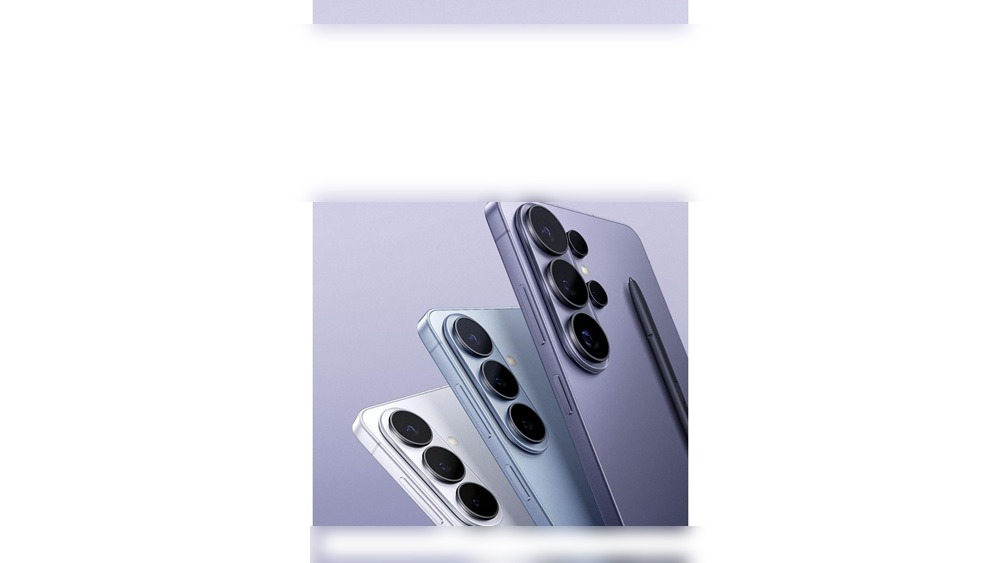
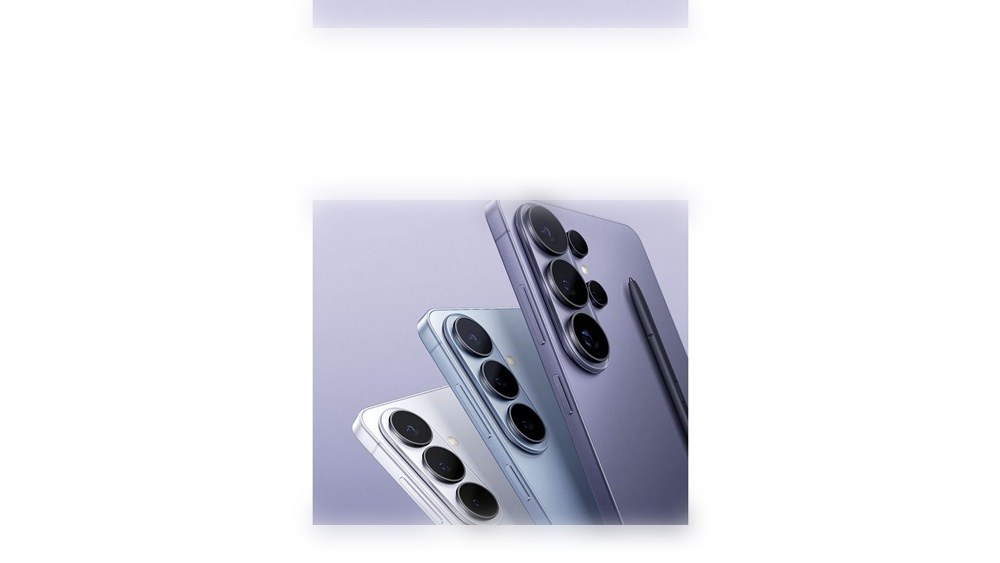
/plus: hero text removal — gradient interpolation + feathered blur for natural blend

Changed region(s): [[0.31, 0.8757, 0.713, 1.0], [0.465, 0.3623, 0.558, 0.3925]]

diff --git a/plus/index.html b/plus/index.html
@@ -95,7 +95,7 @@ footer{padding:16px 0 68px;text-align:center;font-size:10px;color:#bbb;border-to
 <!-- 모델 히어로 -->
 <section style="background:#fff">
   <div class="hero-img-wrap" style="max-width:480px;margin:0 auto">
-    <img src="../hero_new.jpg?v=clean" alt="Galaxy S26" style="width:100%;height:auto;display:block">
+    <img src="../hero_new.jpg?v=clean2" alt="Galaxy S26" style="width:100%;height:auto;display:block">
   </div>
   <div style="padding:24px 20px 28px;text-align:center">
     <p style="font-size:15px;font-weight:800;color:var(--blue);margin-bottom:6px;letter-spacing:.03em">Galaxy S26 시리즈 단독특가</p>

diff --git a/_clean_hero.py b/_clean_hero.py
@@ -1,52 +1,62 @@
 """
-Remove text from hero_new.jpg by replacing text regions with sampled background gradient.
-The image has lavender background with text at top and small disclaimer at bottom.
+Cleanly remove text from hero_new.jpg.
+Approach: per-row gradient interpolation from LEFT+RIGHT clean edges, then
+heavy feathered blur composite to make patch undetectable.
 """
 from PIL import Image, ImageDraw, ImageFilter
 
-src = "hero_new.jpg"
-dst = "hero_new.jpg"  # overwrite
+SRC = "iihjhjhjhj_src.jpg"
+DST = "hero_new.jpg"
 
-im = Image.open(src).convert("RGB")
+im = Image.open(SRC).convert("RGB")
 W, H = im.size
 print("size:", W, H)
+px = im.load()
 
-# Sample background color along the LEFT edge (clean lavender) per row
-# We'll patch text regions using a per-row left-edge color (gradient-aware)
-def row_color(y, x_sample=20):
-    # average a few pixels from a clean area on the LEFT side
-    px = im.load()
-    rs, gs, bs = 0, 0, 0
-    n = 0
-    for x in range(10, 35):
+def sample_row(y, x0, x1):
+    rs = gs = bs = n = 0
+    for x in range(x0, x1):
         r, g, b = px[x, y]
         rs += r; gs += g; bs += b; n += 1
-    return (rs // n, gs // n, bs // n)
+    return (rs / n, gs / n, bs / n)
+
+# Build per-row LEFT and RIGHT background colors
+# Clean strips: x=10..70 on left, x=920..980 on right (away from any text/phones)
+left_col = [sample_row(y, 10, 70) for y in range(H)]
+right_col = [sample_row(y, 920, 980) for y in range(H)]
 
 draw = ImageDraw.Draw(im)
 
-# TOP text block: y range ~ 40..180, x range ~ 280..720
-# Use slightly bigger box to be safe
-top_y0, top_y1 = 30, 195
-top_x0, top_x1 = 240, 760
-for y in range(top_y0, top_y1):
-    c = row_color(y)
-    draw.line([(top_x0, y), (top_x1, y)], fill=c)
+def fill_text_region(y0, y1, x0, x1):
+    """Fill rectangle with per-row, per-x interpolated background color."""
+    for y in range(y0, y1):
+        if y < 0 or y >= H: continue
+        lr, lg, lb = left_col[y]
+        rr, rg, rb = right_col[y]
+        for x in range(x0, x1):
+            t = (x - x0) / max(1, (x1 - x0))
+            r = int(lr + (rr - lr) * t)
+            g = int(lg + (rg - lg) * t)
+            b = int(lb + (rb - lb) * t)
+            draw.point((x, y), fill=(r, g, b))
 
-# BOTTOM small disclaimer: y ~ 535..560, x ~ 360..640
-bot_y0, bot_y1 = 530, H - 4
-bot_x0, bot_x1 = 320, 700
-for y in range(bot_y0, bot_y1):
-    c = row_color(y)
-    draw.line([(bot_x0, y), (bot_x1, y)], fill=c)
+# TOP wording block (Galaxy S26 Series + Galaxy AI + 사전판매 + dates)
+# generous margins to fully cover text + dot decorations
+fill_text_region(28, 200, 230, 770)
 
-# Optional: subtle blur on patched regions to blend
+# BOTTOM small disclaimer (2 tiny lines)
+fill_text_region(525, H, 305, 705)
+
+# Heavy feathered blend so the patches disappear into the gradient
 mask = Image.new("L", im.size, 0)
 md = ImageDraw.Draw(mask)
-md.rectangle([top_x0 - 10, top_y0 - 6, top_x1 + 10, top_y1 + 6], fill=255)
-md.rectangle([bot_x0 - 10, bot_y0 - 4, bot_x1 + 10, bot_y1 + 4], fill=255)
-blurred = im.filter(ImageFilter.GaussianBlur(radius=8))
+# Top mask, slightly larger than fill region, then blur for soft feather
+md.rectangle([220, 18, 780, 210], fill=255)
+md.rectangle([295, 520, 715, H], fill=255)
+mask = mask.filter(ImageFilter.GaussianBlur(radius=18))
+
+blurred = im.filter(ImageFilter.GaussianBlur(radius=12))
 im = Image.composite(blurred, im, mask)
 
-im.save(dst, "JPEG", quality=92)
-print("saved:", dst)
+im.save(DST, "JPEG", quality=94)
+print("saved:", DST)
